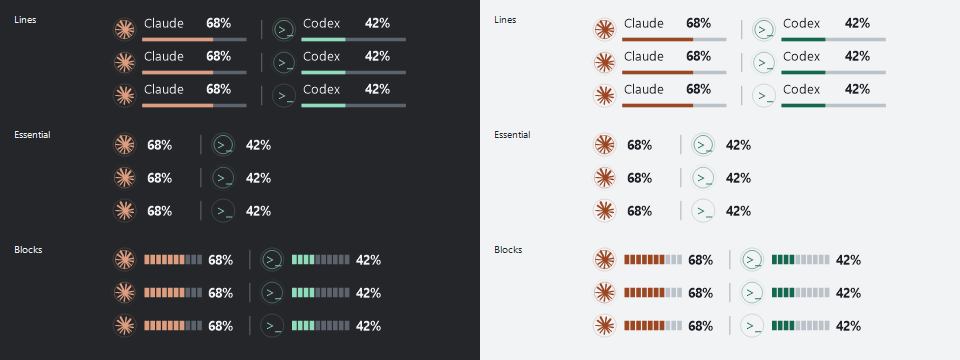
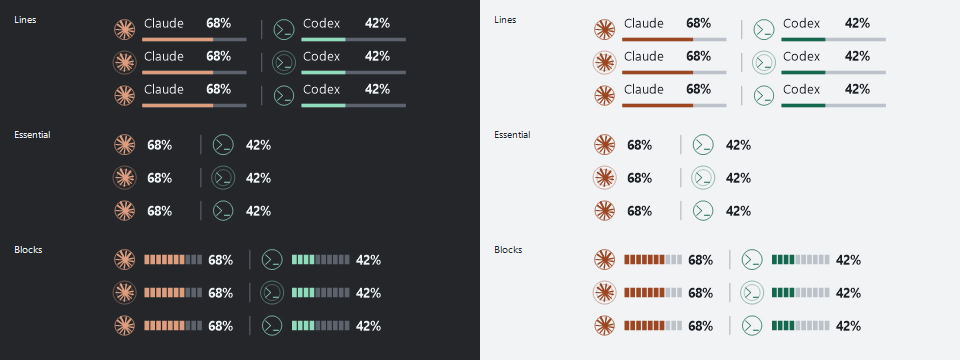
Smooth the complete Ripple cycle and center provider symbols

diff --git a/src/Taskcode.Probe/ActivityChecks.cs b/src/Taskcode.Probe/ActivityChecks.cs
@@ -32,6 +32,19 @@ namespace Taskcode.Probe
             ClaudeBridge.ConfigureActivityHooks(settings, false); string restored = AccountJson.Encode(settings);
             Check(restored.Contains("keep-me") && restored.Contains("unrelated") && !restored.Contains("--activity-"), "Removing activity hooks must preserve user hooks and other settings.");
             Check(Math.Abs(ActivityRipple.PhaseAt(0.5, 0) - ActivityRipple.PhaseAt(0.5, 1)) > 0.49, "Ripple rings must have staggered phases.");
+            Check(ActivityRipple.AlphaAt(0) == 0 && ActivityRipple.AlphaAt(1) == 0, "Each ring must start and end fully faded.");
+            Check(ActivityRipple.AlphaAt(0.5) == 190 && ActivityRipple.AlphaAt(0.75) > 90, "The ring must remain visible through the outer half of its expansion.");
+            Check(ActivityRipple.AlphaAt(0.01) <= 1 && ActivityRipple.AlphaAt(0.99) <= 1, "The cycle boundary must not flash or snap.");
+            Check(ActivityRipple.RadiusAt(0) < ActivityRipple.RadiusAt(0.5) && ActivityRipple.RadiusAt(0.5) < ActivityRipple.RadiusAt(1), "Ripple must expand through its entire cycle.");
+            Check(IndicatorView.MarkCenter(36) == new PointF(44, 17), "The symbol and ripple must share their exact center.");
+            using (var mark = new Bitmap(80, 80))
+            {
+                using (var g = Graphics.FromImage(mark)) using (var brush = new SolidBrush(Color.White)) BrandMarks.DrawCodex(g, brush, new RectangleF(20, 20, 40, 40));
+                int left = 80, top = 80, right = -1, bottom = -1;
+                for (int y = 0; y < 80; y++) for (int x = 0; x < 80; x++) if (mark.GetPixel(x, y).A > 16)
+                { left = Math.Min(left, x); top = Math.Min(top, y); right = Math.Max(right, x); bottom = Math.Max(bottom, y); }
+                Check(Math.Abs((left + right) / 2.0 - 40) <= 1 && Math.Abs((top + bottom) / 2.0 - 40) <= 1, "The Codex symbol's visible ink must be centered without font padding.");
+            }
             string originalHome = Environment.GetEnvironmentVariable("CODEX_HOME");
             string fixtureHome = Path.Combine(directory, "activity-fixture");
             string fixtureDay = Path.Combine(fixtureHome, "sessions", now.ToString("yyyy/MM/dd", System.Globalization.CultureInfo.InvariantCulture));
@@ -74,6 +87,33 @@ namespace Taskcode.Probe
                     }
                 }
                 board.Save(Path.Combine(directory, "ripple-check.png"), System.Drawing.Imaging.ImageFormat.Png);
+            }
+            using (var board = new Bitmap(936, 320))
+            using (var graphics = Graphics.FromImage(board))
+            using (var font = new Font("Segoe UI", 11, FontStyle.Regular, GraphicsUnit.Pixel))
+            {
+                for (int palette = 0; palette < 2; palette++)
+                {
+                    var theme = TaskbarTheme.Create(palette == 0);
+                    using (var bg = new SolidBrush(theme.PreviewBackground)) graphics.FillRectangle(bg, 0, palette * 160, 936, 160);
+                    for (int frame = 0; frame <= 8; frame++)
+                    {
+                        double seconds = frame * ActivityRipple.Duration / 8;
+                        using (var label = new SolidBrush(theme.Text)) graphics.DrawString(seconds.ToString("0.0", System.Globalization.CultureInfo.InvariantCulture) + "s", font, label, frame * 104 + 30, palette * 160 + 10);
+                        for (int provider = 0; provider < 2; provider++)
+                        {
+                            var saved = graphics.Save();
+                            graphics.TranslateTransform(frame * 104 + 24, palette * 160 + 35 + provider * 60); graphics.ScaleTransform(2, 2);
+                            var color = provider == 0 ? theme.Claude : theme.Codex;
+                            using (var brush = new SolidBrush(color))
+                                if (provider == 0) BrandMarks.DrawClaude(graphics, brush, new RectangleF(6, 6, 16, 16)); else BrandMarks.DrawCodex(graphics, brush, new RectangleF(6, 6, 16, 16));
+                            graphics.SmoothingMode = System.Drawing.Drawing2D.SmoothingMode.AntiAlias;
+                            ActivityRipple.Draw(graphics, color, new PointF(14, 14), seconds);
+                            graphics.Restore(saved);
+                        }
+                    }
+                }
+                board.Save(Path.Combine(directory, "ripple-cycle-check.png"), System.Drawing.Imaging.ImageFormat.Png);
             }
         }
         private static string Event(string type, DateTime at) { return AccountJson.Encode(new { type = "event_msg", timestamp = at.ToString("o"), payload = new { type = type } }); }

diff --git a/src/Taskcode.Probe/MainWindow.cs b/src/Taskcode.Probe/MainWindow.cs
@@ -10,6 +10,7 @@ namespace Taskcode.Probe
         internal const string WindowTitle = "Taskcode settings";
         internal static readonly uint OpenSettingsMessage = Native.RegisterWindowMessage("Taskcode.OpenSettings");
         internal static readonly uint ExitMessage = Native.RegisterWindowMessage("Taskcode.Exit");
+        internal static readonly uint PreviewAnimationMessage = Native.RegisterWindowMessage("Taskcode.PreviewAnimation");
         private readonly Settings settings = Settings.Load();
         private readonly TaskbarWatcher watcher = new TaskbarWatcher();
         private readonly Timer timer = new Timer { Interval = 250 };
@@ -36,6 +37,8 @@ namespace Taskcode.Probe
         private bool startInTray, exiting;
         private readonly AccountConnections connections;
         private readonly Label accountNotice;
+        private DateTime ripplePreviewUntil;
+        private int CurrentActivity { get { return DateTime.UtcNow < ripplePreviewUntil ? 3 : usage.ActivityAt(DateTime.UtcNow); } }
 
         internal MainWindow(bool startInTray = false, bool connectAccounts = true)
         {
@@ -207,7 +210,7 @@ namespace Taskcode.Probe
             animationTimer.Tick += delegate
             {
                 int key = usage.PulseKey(DateTime.UtcNow, settings.ShowWeekly);
-                int activity = usage.ActivityAt(DateTime.UtcNow);
+                int activity = CurrentActivity;
                 preview.PulseKey = key;
                 preview.ActivityKey = activity;
                 preview.Invalidate();
@@ -219,6 +222,7 @@ namespace Taskcode.Probe
             Icon = trayImage;
             trayMenu = new ContextMenuStrip();
             trayMenu.Items.Add("Open settings", null, delegate { OpenSettings(); });
+            trayMenu.Items.Add("Preview animation (8 seconds)", null, delegate { PreviewAnimation(); });
             trayMenu.Items.Add(new ToolStripSeparator());
             trayMenu.Items.Add("Exit", null, delegate { RequestExit(); });
             trayMenu.Closed += delegate
@@ -257,9 +261,11 @@ namespace Taskcode.Probe
         {
             if (message.Msg == OpenSettingsMessage) { OpenSettings(); return; }
             if (message.Msg == ExitMessage) { RequestExit(); return; }
+            if (message.Msg == PreviewAnimationMessage) { PreviewAnimation(); return; }
             base.WndProc(ref message);
         }
         internal bool TrayVisible { get { return tray.Visible; } }
+        internal void PreviewAnimation() { ripplePreviewUntil = DateTime.UtcNow.AddSeconds(8); TickLayout(); }
         internal void OpenSettings()
         {
             startInTray = false;
@@ -323,7 +329,7 @@ namespace Taskcode.Probe
             }
             usage.Tick(DateTime.UtcNow);
             int pulse = usage.PulseKey(DateTime.UtcNow, settings.ShowWeekly);
-            int activityKey = usage.ActivityAt(DateTime.UtcNow);
+            int activityKey = CurrentActivity;
             animationTimer.Enabled = (pulse != 0 || activityKey != 0) && enabled.Checked && SpeedArrows.IsAnimated;
             if (preview.ActivityKey != activityKey) { preview.ActivityKey = activityKey; preview.Invalidate(); }
             if (preview.PulseKey != pulse) { preview.PulseKey = pulse; preview.Invalidate(); }

diff --git a/src/Taskcode.Probe/Indicator.cs b/src/Taskcode.Probe/Indicator.cs
@@ -93,8 +93,8 @@ namespace Taskcode.Probe
                     DrawSpeedHint(g, theme.Claude, 36, style, false, pulseKey & 3, 0);
                     DrawSpeedHint(g, theme.Codex, second, style, false, (pulseKey >> 4) & 3, 0);
                 }
-                if ((activityKey & 1) != 0) ActivityRipple.Draw(g, theme.Claude, new PointF(44, 17), activitySeconds);
-                if ((activityKey & 2) != 0) ActivityRipple.Draw(g, theme.Codex, new PointF(SecondProviderX(style, showWeekly) + 8, 17), activitySeconds);
+                if ((activityKey & 1) != 0) ActivityRipple.Draw(g, theme.Claude, MarkCenter(36), activitySeconds);
+                if ((activityKey & 2) != 0) ActivityRipple.Draw(g, theme.Codex, MarkCenter(SecondProviderX(style, showWeekly)), activitySeconds);
             }
             g.Restore(state);
         }
@@ -174,9 +174,12 @@ namespace Taskcode.Probe
         }
         private static void DrawMark(Graphics g, Font font, Brush accent, string name, int x)
         {
-            if (name == "Claude") BrandMarks.DrawClaude(g, accent, new RectangleF(x, 9, 16, 16));
-            else using (var symbol = new Font("Segoe UI", 13f, FontStyle.Regular, GraphicsUnit.Pixel)) g.DrawString(">_", symbol, accent, x, 8);
+            var bounds = MarkBounds(x);
+            if (name == "Claude") BrandMarks.DrawClaude(g, accent, bounds);
+            else BrandMarks.DrawCodex(g, accent, bounds);
         }
+        internal static RectangleF MarkBounds(int x) { return new RectangleF(x, 9, 16, 16); }
+        internal static PointF MarkCenter(int x) { var bounds = MarkBounds(x); return new PointF(bounds.X + bounds.Width / 2, bounds.Y + bounds.Height / 2); }
         protected override void OnKeyDown(KeyEventArgs e)
         {
             if (e.KeyCode == Keys.Enter || e.KeyCode == Keys.Space) { OnClick(EventArgs.Empty); e.Handled = true; }
@@ -338,7 +341,6 @@ namespace Taskcode.Probe
             sourceLabel = AddText("DEMO DATA  /  Remaining quota", 18, 49, 9, FontStyle.Regular, Color.LightGray);
             var providerColor = providerIndex == 0 ? IndicatorView.Claude : IndicatorView.Codex;
             AddText(provider, 42, 80, 10, FontStyle.Bold, providerColor);
-            if (providerIndex == 1) AddText(">_", 18, 80, 10, FontStyle.Bold, providerColor);
             AddQuota(this.usage.Readings[providerIndex * 2], 110);
             AddQuota(this.usage.Readings[providerIndex * 2 + 1], 196);
             AddText("Gray: used · Color: remaining · ▼: time", 18, 286, 8, FontStyle.Regular, Color.LightGray);
@@ -435,6 +437,7 @@ namespace Taskcode.Probe
             e.Graphics.SmoothingMode = SmoothingMode.AntiAlias;
             if (ProviderIndex == 0)
                 using (var brush = new SolidBrush(theme.Claude)) BrandMarks.DrawClaude(e.Graphics, brush, new RectangleF(18, 84, 16, 16));
+            else using (var brush = new SolidBrush(theme.Codex)) BrandMarks.DrawCodex(e.Graphics, brush, new RectangleF(18, 84, 16, 16));
         }
         protected override bool ShowWithoutActivation { get { return true; } }
     }

diff --git a/src/Taskcode.Probe/ActivityRipple.cs b/src/Taskcode.Probe/ActivityRipple.cs
@@ -1,14 +1,15 @@
 using System;
-using System.Diagnostics;
 using System.Drawing;
 
 namespace Taskcode.Probe
 {
     internal static class ActivityRipple
     {
-        private static readonly Stopwatch Clock = Stopwatch.StartNew();
-        internal static double Seconds { get { return Clock.Elapsed.TotalSeconds; } }
-        internal static double PhaseAt(double seconds, int ring) { return ((seconds / 2.21 - ring * 0.5) % 1 + 1) % 1; }
+        internal const double Duration = 2.4;
+        internal static double Seconds { get { return SpeedArrows.Seconds; } }
+        internal static double PhaseAt(double seconds, int ring) { return ((seconds / Duration - ring * 0.5) % 1 + 1) % 1; }
+        internal static float RadiusAt(double phase) { return (float)(5.5 + phase * 6.0); }
+        internal static int AlphaAt(double phase) { double wave = Math.Sin(Math.PI * phase); return (int)Math.Round(190 * wave * wave); }
         internal static void Draw(Graphics graphics, Color color, PointF center, double seconds = -1)
         {
             if (!SpeedArrows.IsAnimated && seconds < 0)
@@ -20,9 +21,9 @@ namespace Taskcode.Probe
             for (int ring = 0; ring < 2; ring++)
             {
                 double phase = PhaseAt(seconds, ring);
-                float radius = (float)(7.8 + phase * 4.2);
-                int alpha = (int)Math.Round(140 * Math.Pow(1 - phase, 1.6));
-                using (var pen = new Pen(Color.FromArgb(alpha, color), 0.85f))
+                float radius = RadiusAt(phase);
+                int alpha = AlphaAt(phase);
+                using (var pen = new Pen(Color.FromArgb(alpha, color), 1f))
                     graphics.DrawEllipse(pen, center.X - radius, center.Y - radius, radius * 2, radius * 2);
             }
         }

diff --git a/src/Taskcode.Probe/BrandMarks.cs b/src/Taskcode.Probe/BrandMarks.cs
@@ -39,5 +39,19 @@ namespace Taskcode.Probe
             using (var transform = new System.Drawing.Drawing2D.Matrix(bounds.Width / 24f, 0, 0, bounds.Height / 24f, bounds.X, bounds.Y))
             { path.Transform(transform); graphics.FillPath(brush, path); }
         }
+        internal static void DrawCodex(Graphics graphics, System.Drawing.Brush brush, RectangleF bounds)
+        {
+            // A centered terminal mark avoids font side bearings and baseline offsets.
+            var state = graphics.Save();
+            graphics.TranslateTransform(bounds.X, bounds.Y);
+            graphics.ScaleTransform(bounds.Width / 16f, bounds.Height / 16f);
+            graphics.SmoothingMode = SmoothingMode.AntiAlias;
+            using (var pen = new System.Drawing.Pen(brush, 1.15f) { StartCap = LineCap.Round, EndCap = LineCap.Round, LineJoin = System.Drawing.Drawing2D.LineJoin.Round })
+            {
+                graphics.DrawLines(pen, new[] { new PointF(2.5f, 4), new PointF(6.8f, 8), new PointF(2.5f, 12) });
+                graphics.DrawLine(pen, 9, 12, 13.5f, 12);
+            }
+            graphics.Restore(state);
+        }
     }
 }

diff --git a/src/Taskcode.Probe/Program.cs b/src/Taskcode.Probe/Program.cs
@@ -16,6 +16,12 @@ namespace Taskcode.Probe
             if (Array.IndexOf(args, "--accounts-check") >= 0) return AccountChecks.Probe(false);
             if (Array.IndexOf(args, "--activity-check") >= 0) return AccountChecks.ProbeActivity();
             if (Array.IndexOf(args, "--connect-claude") >= 0) return AccountChecks.Probe(true);
+            if (Array.IndexOf(args, "--preview-animation") >= 0)
+            {
+                var running = Native.FindWindow(null, MainWindow.WindowTitle);
+                if (running != IntPtr.Zero) Native.PostMessage(running, MainWindow.PreviewAnimationMessage, IntPtr.Zero, IntPtr.Zero);
+                return 0;
+            }
             if (Array.IndexOf(args, "--exit") >= 0)
             {
                 var running = Native.FindWindow(null, MainWindow.WindowTitle);

diff --git a/src/Taskcode.Probe/SpeedArrows.cs b/src/Taskcode.Probe/SpeedArrows.cs
@@ -9,6 +9,7 @@ namespace Taskcode.Probe
     internal static class SpeedArrows
     {
         private static readonly Stopwatch Clock = Stopwatch.StartNew();
+        internal static double Seconds { get { return Clock.Elapsed.TotalSeconds; } }
         private static DateTime nextPreferenceRead;
         private static bool animationsEnabled = true;
         internal static bool IsAnimated

diff --git a/docs/ACTIVITY.md b/docs/ACTIVITY.md
@@ -2,7 +2,9 @@
 
 While a provider has an observed running turn, two soft rings expand and fade around its symbol. Claude uses its peach accent and Codex its mint accent. Each provider works independently. A quota refresh, an open application, and a change in quota are not treated as proof of a running turn.
 
-The cycle lasts 2.21 seconds, with the two rings half a cycle apart. The strip keeps its transparent background. The effect uses the existing 30 FPS timer only while activity or a temporary speed hint needs animation. When Windows disables client-area animations or high contrast is active, a small static activity dot replaces moving rings. Idle or unknown activity has no ripple.
+The cycle lasts 2.4 seconds, with the two rings half a cycle apart. Each ring expands continuously and uses a smooth sine-squared opacity envelope: fully faded at both ends, brightest in the middle. Animation and frame caching share the same monotonic clock. Both provider symbols use explicit vector bounds, including a centered terminal mark for Codex, so font padding cannot displace the ripple. The strip keeps its transparent appearance. The effect uses the existing 30 FPS timer only while activity or a temporary speed hint needs animation. When Windows disables client-area animations or high contrast is active, a small static activity dot replaces moving rings. Idle or unknown activity has no ripple.
+
+Right-click the indicator or tray icon and choose **Preview animation (8 seconds)** to inspect both colors without changing account readings or real activity state. The preview ends automatically. No incoming Claude activity records means no live Claude ripple; use the preview to distinguish a drawing problem from a missing activity signal.
 
 Lines now includes the provider symbols alongside the names so the same ripple has a symbol to surround in every style. Essential, Blocks, and the weekly layouts keep their existing arrangement. Existing recent-consumption arrows describe quota velocity and remain separate from execution activity.
 
@@ -24,6 +26,6 @@ An already-running turn whose start is outside the initial tail may remain unkno
 
 ## Verification
 
-Self-tests cover start, stop, permission waiting, event order, stale activity, malformed records, message spoofing, hook idempotency/restoration, staggered rings, and transparent rendering. `out/probe/ripple-check.png` is an offscreen comparison across styles and themes. `--activity-check` writes only a sanitized working/idle-or-unavailable summary to the ignored output directory.
+Self-tests cover start, stop, permission waiting, event order, stale activity, malformed records, message spoofing, hook idempotency/restoration, smooth cycle boundaries, visible outer expansion, centered Codex ink, staggered rings, and transparent rendering. `out/probe/ripple-check.png` compares styles and themes; `ripple-cycle-check.png` samples a complete cycle for both providers in both themes. `--activity-check` writes only a sanitized working/idle-or-unavailable summary to the ignored output directory. `--preview-animation` requests the same eight-second preview from a running instance.
 
 Offline `--demo` mode animates both providers for fifteen seconds on startup and after **Simulate speed** in active scenarios. It is explicitly simulated and does not write live activity files.
